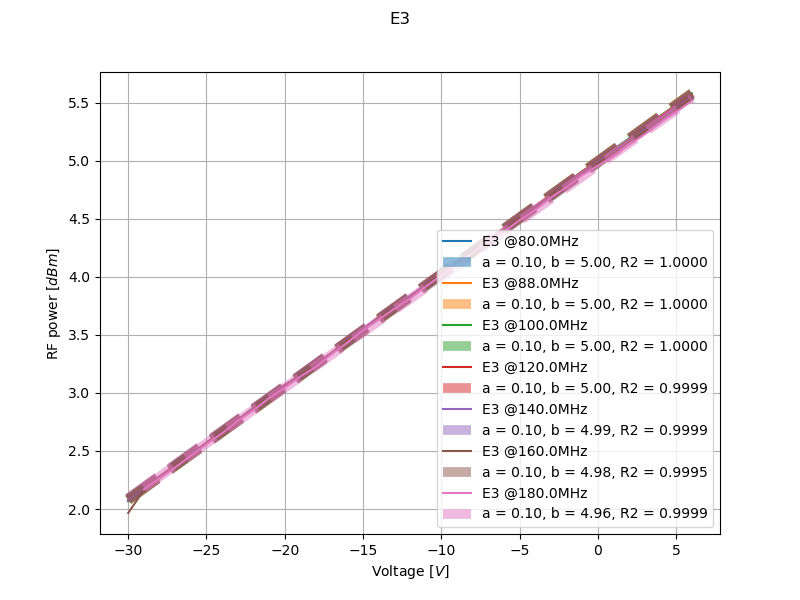
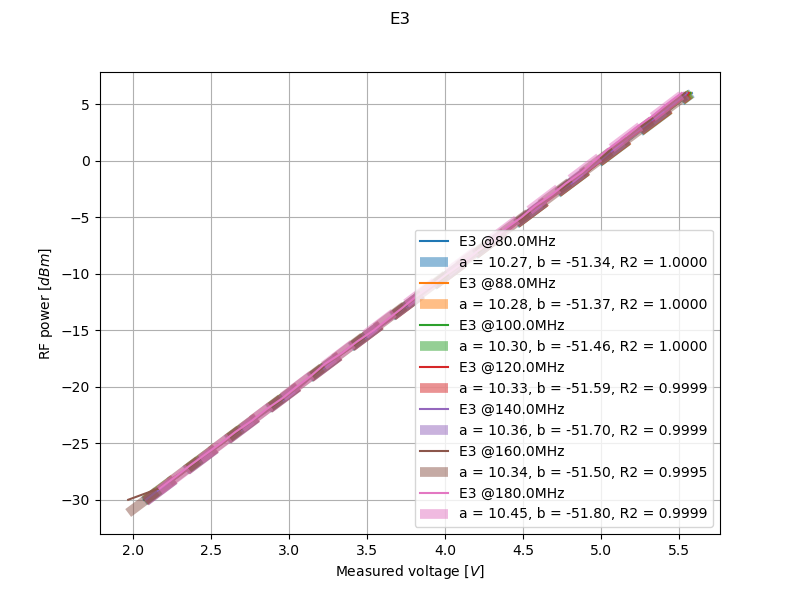
fixed inconsistency in plot and fit, mixed up xdata and ydata

diff --git a/src/single_measurement.py b/src/single_measurement.py
@@ -141,7 +141,7 @@ class Measurement:
 
     def fit(self) -> tuple[float, float, float]:
         """Perform the fit."""
-        xdata, ydata = self.p_dbm, self.voltage
+        xdata, ydata = self.voltage, self.p_dbm
         popt, _ = curve_fit(model, xdata=xdata, ydata=ydata)
         a_opti, b_opti = popt
         residuals = ydata - model(xdata, *popt)
@@ -152,13 +152,13 @@ class Measurement:
 
     def plot_fit(self, axe: Axes) -> None:
         """Plot data."""
-        line1, = axe.plot(self.p_dbm,
-                          self.voltage,
+        line1, = axe.plot(self.voltage,
+                          self.p_dbm,
                           label=f"{self.rack_name} @{self.frequency_mhz}MHz")
         label = f"a = {self.a_opti:3.2f}, b = {self.b_opti:3.2f}, "
         label += f"R2 = {self.r_squared:3.4f}"
-        axe.plot(self.p_dbm,
-                 model(self.p_dbm, self.a_opti, self.b_opti),
+        axe.plot(self.voltage,
+                 model(self.voltage, self.a_opti, self.b_opti),
                  color=line1.get_color(),
                  ls='--',
                  label=label,

diff --git a/src/rack.py b/src/rack.py
@@ -72,7 +72,7 @@ class Rack:
         fig = plt.figure(fignum)
         axe = fig.add_subplot(111)
 
-        axe.set_xlabel(r"Voltage $[V]$")
+        axe.set_xlabel(r"Measured voltage $[V]$")
         axe.set_ylabel(r"RF power $[dBm]$")
         axe.grid(True)
         for measurement in self.measurements:
